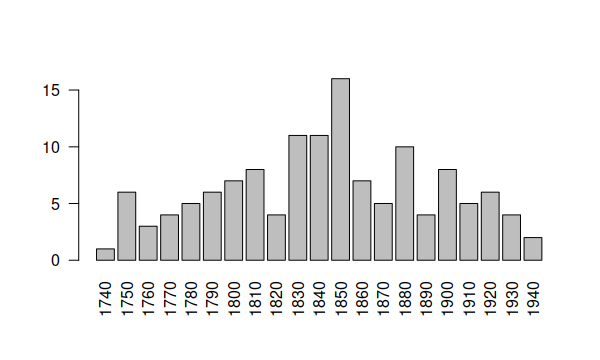
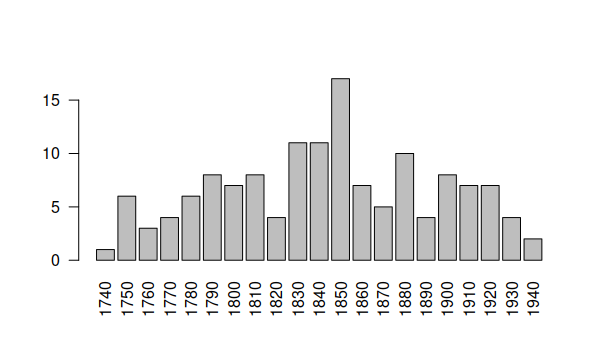
update

diff --git a/README.md b/README.md
@@ -2,7 +2,7 @@
 ## Corpus Description
 We are building a Russian Drama Corpus with files encoded in
 [TEI-P5](http://www.tei-c.org/Guidelines/P5/). Our corpus comprises
-**133 plays** to date, stemming from [ilibrary](https://ilibrary.ru/),
+**140 plays** to date, stemming from [ilibrary](https://ilibrary.ru/),
 [Wikisource](https://ru.wikisource.org/), [РВБ](https://rvb.ru/),
 [lib.ru](http://lib.ru/), [ФЕБ](http://feb-web.ru/),
 [СовЛит](http://www.ruthenia.ru/sovlit/) and
@@ -12,11 +12,6 @@ by us. There will be more.
 If you want to cite the corpus in a paper, please use this publication:
 
 - **Skorinkin D., Fischer F., Palchikov G. (2018)**: Building a Corpus for the Quantitative Research of Russian Drama: Composition, Structure, Case Studies. *Proceedings of the International Conference "Dialogue 2018"*, pp. 662–682. (**[PDF](http://www.dialog-21.ru/media/4332/skorinkind.pdf)**)
-
-If you just want to download the corpus in its current state in XML-TEI,
-do this (*update:* does not seem to work with svn 1.11):
-
-`svn export https://github.com/dracor-org/rusdracor/trunk/tei`
 
 RusDraCor was first presented on June 29, 2017, at the [Corpora 2017
 conference](https://events.spbu.ru/events/anons/corpora-2017/?lang=Eng) in St.
@@ -28,6 +23,16 @@ on November 14, 2017, at the
 in Victoria. The social network data we extract from plays may also be explored
 on our website [dracor.org/rus](https://dracor.org/rus) or via
 [our Shinyapp](https://shiny.dracor.org/).
+
+If you just want to download the corpus in its current state in XML-TEI,
+do this:
+
+`svn export https://github.com/dracor-org/rusdracor/trunk/tei`
+
+(*Update:* GitHub's SVN bridge server implementation
+[is incompatible with SVN 1.11](https://subversion.apache.org/docs/release-notes/1.11#issues),
+use 1.10 or lower or choose another method for corpus downloading, or just
+`git clone` it.)
 
 ## API
 
@@ -64,4 +69,4 @@ And here is a barplot showing the number of plays per decade:
 
 ![number of speakers per play over time](playsPerDecade.png)
 
-(README last updated on November 29, 2018.)
+(README last updated on December 3, 2018.)
